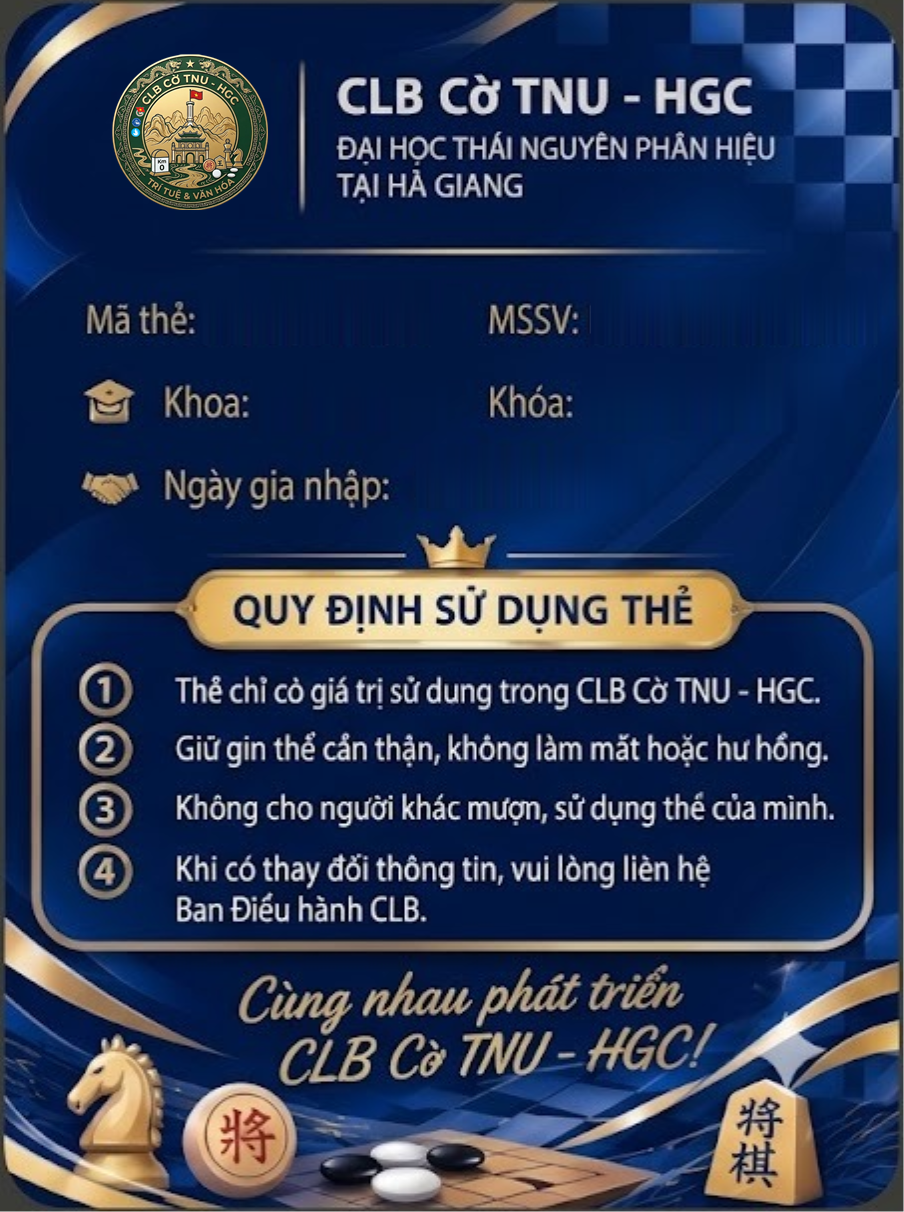
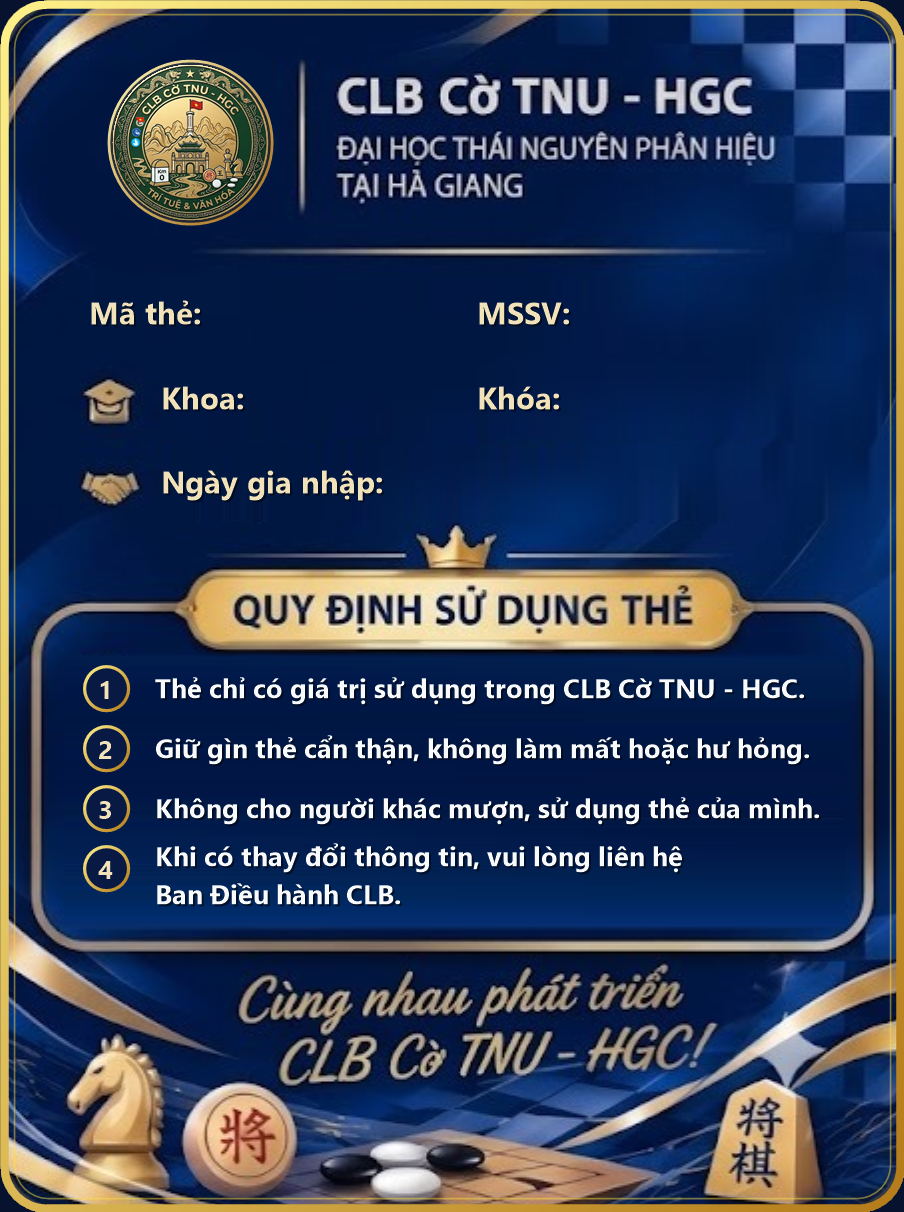
feat(card): redesign print-ready 2-sided PVC member card with 3D gold bezel, unified crisp typography, and spell-checked rules (v13)

diff --git a/src/js/components/memberCard.js b/src/js/components/memberCard.js
@@ -149,10 +149,10 @@ export const memberCardComponent = {
 
     // Load template backgrounds & member avatar in parallel
     const [frontBgImg, backBgImg, avatarImg, fallbackLogoImg] = await Promise.all([
-      loadImage('/card-front-bg.png?v=12'),
-      loadImage('/card-back-bg.png?v=12'),
+      loadImage('/card-front-bg.png?v=13'),
+      loadImage('/card-back-bg.png?v=13'),
       loadImage(member.avatar),
-      loadImage('/logo-circle.png?v=12')
+      loadImage('/logo-circle.png?v=13')
     ]);
 
     const frontCanvas = containerEl.querySelector('#frontCardMasterCanvas');
@@ -167,15 +167,15 @@ export const memberCardComponent = {
         ctxF.drawImage(frontBgImg, 0, 0, 904, 1212);
       }
 
-      // 1. Draw Member Portrait inside 3D Gold Frame (49, 418, 318, 368, r=26) with object-fit: cover
+      // 1. Draw Member Portrait inside 3D Gold Frame (45, 414, 326, 376, r=28) with object-fit: cover
       const photoToDraw = avatarImg || fallbackLogoImg;
       ctxF.save();
-      drawRoundedRectPath(ctxF, 49, 418, 318, 368, 26);
+      drawRoundedRectPath(ctxF, 45, 414, 326, 376, 28);
       ctxF.clip();
-      ctxF.fillStyle = '#0b1936';
-      ctxF.fillRect(49, 418, 318, 368);
+      ctxF.fillStyle = '#08183a';
+      ctxF.fillRect(45, 414, 326, 376);
       if (photoToDraw) {
-        const boxX = 49, boxY = 418, boxW = 318, boxH = 368;
+        const boxX = 45, boxY = 414, boxW = 326, boxH = 376;
         const imgW = photoToDraw.naturalWidth || photoToDraw.width || boxW;
         const imgH = photoToDraw.naturalHeight || photoToDraw.height || boxH;
         const scale = Math.max(boxW / imgW, boxH / imgH);
@@ -187,49 +187,61 @@ export const memberCardComponent = {
       }
       ctxF.restore();
 
-      // 2. Draw Member Name centered above the Gold Star Divider (x=648, y=490, maxWidth=445)
+      // 2. Draw Member Name centered above the Gold Star Divider (x=646, y=490, maxWidth=445)
       ctxF.save();
-      let nameFontSize = 46;
+      let nameFontSize = 48;
       ctxF.font = `700 ${nameFontSize}px "Segoe UI", "Roboto", "Be Vietnam Pro", Arial, sans-serif`;
-      while (ctxF.measureText(memberName).width > 445 && nameFontSize > 30) {
+      while (ctxF.measureText(memberName).width > 445 && nameFontSize > 28) {
         nameFontSize -= 2;
         ctxF.font = `700 ${nameFontSize}px "Segoe UI", "Roboto", "Be Vietnam Pro", Arial, sans-serif`;
       }
       ctxF.fillStyle = '#ffffff';
       ctxF.textAlign = 'center';
       ctxF.textBaseline = 'middle';
-      ctxF.shadowColor = 'rgba(0, 0, 0, 0.75)';
-      ctxF.shadowBlur = 8;
+      ctxF.shadowColor = 'rgba(0, 0, 0, 0.85)';
+      ctxF.shadowBlur = 10;
       ctxF.shadowOffsetX = 0;
-      ctxF.shadowOffsetY = 2;
-      ctxF.fillText(memberName, 648, 490, 445);
+      ctxF.shadowOffsetY = 3;
+      ctxF.fillText(memberName, 646, 490, 445);
       ctxF.restore();
 
-      // 3. Draw Ngày sinh & Lớp values aligned with static labels
+      // 3. Draw Ngày sinh & Lớp values aligned with unified 33px Bold labels (y=611, y=689)
       ctxF.save();
-      ctxF.font = '500 33px "Segoe UI", "Roboto", "Be Vietnam Pro", Arial, sans-serif';
+      ctxF.font = '700 34px "Segoe UI", "Roboto", "Be Vietnam Pro", Arial, sans-serif';
       ctxF.fillStyle = '#f8fafc';
       ctxF.textAlign = 'left';
       ctxF.textBaseline = 'middle';
-      ctxF.shadowColor = 'rgba(0, 0, 0, 0.7)';
-      ctxF.shadowBlur = 4;
+      ctxF.shadowColor = 'rgba(0, 0, 0, 0.85)';
+      ctxF.shadowBlur = 6;
       ctxF.shadowOffsetX = 0;
-      ctxF.shadowOffsetY = 1;
-      ctxF.fillText(memberDob, 670, 613, 195);
-      ctxF.fillText(memberClass, 670, 691, 195);
+      ctxF.shadowOffsetY = 2;
+      ctxF.fillText(memberDob, 670, 611, 196);
+      ctxF.fillText(memberClass, 670, 689, 196);
       ctxF.restore();
 
-      // 4. Draw Chức vụ value centered inside the 3D Gold Pill (x=768, y=771, maxWidth=176)
+      // 4. Draw Chức vụ value centered inside the 3D Gold Pill (x=766, y=770, maxWidth=176)
       ctxF.save();
-      ctxF.font = '700 29px "Segoe UI", "Roboto", "Be Vietnam Pro", Arial, sans-serif';
-      ctxF.fillStyle = '#14223e';
+      let roleFontSize = 29;
+      ctxF.font = `700 ${roleFontSize}px "Segoe UI", "Roboto", "Be Vietnam Pro", Arial, sans-serif`;
+      while (ctxF.measureText(memberRoleTitle).width > 174 && roleFontSize > 20) {
+        roleFontSize -= 1;
+        ctxF.font = `700 ${roleFontSize}px "Segoe UI", "Roboto", "Be Vietnam Pro", Arial, sans-serif`;
+      }
+      ctxF.fillStyle = '#081636';
       ctxF.textAlign = 'center';
       ctxF.textBaseline = 'middle';
-      ctxF.fillText(memberRoleTitle, 768, 771, 176);
+      ctxF.shadowColor = 'rgba(255, 248, 220, 0.45)';
+      ctxF.shadowBlur = 1;
+      ctxF.shadowOffsetY = 1;
+      ctxF.fillText(memberRoleTitle, 766, 770, 176);
       ctxF.restore();
 
-      // 5. Draw Dynamic Smart QR Key inside the Gold QR Frame (702, 894, 168, 168)
-      ctxF.drawImage(qrCanvas, 702, 894, 168, 168);
+      // 5. Draw Dynamic Smart QR Key inside the Gold QR Frame (698, 894, 168, 168)
+      ctxF.save();
+      drawRoundedRectPath(ctxF, 698, 894, 168, 168, 10);
+      ctxF.clip();
+      ctxF.drawImage(qrCanvas, 698, 894, 168, 168);
+      ctxF.restore();
     }
 
     // ================= DRAW BACK MASTER CANVAS (904 x 1212) =================
@@ -244,23 +256,23 @@ export const memberCardComponent = {
       ctxB.save();
       ctxB.textAlign = 'left';
       ctxB.textBaseline = 'middle';
-      ctxB.shadowColor = 'rgba(0, 0, 0, 0.7)';
-      ctxB.shadowBlur = 4;
+      ctxB.shadowColor = 'rgba(0, 0, 0, 0.85)';
+      ctxB.shadowBlur = 6;
       ctxB.shadowOffsetX = 0;
-      ctxB.shadowOffsetY = 1;
+      ctxB.shadowOffsetY = 2;
 
-      // 1. Mã thẻ (highlighted sky-blue bold)
+      // 1. Mã thẻ (highlighted sky-blue bold at x=212, y=313)
       ctxB.font = '700 33px "Segoe UI", "Roboto", "Be Vietnam Pro", Arial, sans-serif';
-      ctxB.fillStyle = '#5998f5';
-      ctxB.fillText(String(member.id || ''), 202, 313, 260);
+      ctxB.fillStyle = '#56ccf2';
+      ctxB.fillText(String(member.id || ''), 212, 313, 245);
 
-      // 2. MSSV, Khoa, Khóa, Ngày gia nhập
-      ctxB.font = '500 33px "Segoe UI", "Roboto", "Be Vietnam Pro", Arial, sans-serif';
+      // 2. MSSV, Khoa, Khóa, Ngày gia nhập (unified 31px bold white aligned with labels)
+      ctxB.font = '700 31px "Segoe UI", "Roboto", "Be Vietnam Pro", Arial, sans-serif';
       ctxB.fillStyle = '#f8fafc';
-      ctxB.fillText(memberMssv, 592, 313, 280);
-      ctxB.fillText(memberFaculty, 256, 398, 215);
-      ctxB.fillText(memberCohort, 588, 398, 265);
-      ctxB.fillText(memberJoinDate, 415, 482, 280);
+      ctxB.fillText(memberMssv, 578, 313, 290);
+      ctxB.fillText(memberFaculty, 256, 398, 205);
+      ctxB.fillText(memberCohort, 578, 398, 290);
+      ctxB.fillText(memberJoinDate, 396, 482, 290);
       ctxB.restore();
     }
 
@@ -333,7 +345,7 @@ export const memberCardComponent = {
           const ctxComp = compCanvas.getContext('2d');
 
           // Dark luxury textured background
-          ctxComp.fillStyle = '#1e2129';
+          ctxComp.fillStyle = '#070e20';
           ctxComp.fillRect(0, 0, compCanvas.width, compCanvas.height);
 
           const radGrad = ctxComp.createRadialGradient(
@@ -344,15 +356,15 @@ export const memberCardComponent = {
             compCanvas.height / 2,
             compCanvas.width * 0.7
           );
-          radGrad.addColorStop(0, 'rgba(30, 41, 59, 0.6)');
-          radGrad.addColorStop(1, 'rgba(15, 23, 42, 0.95)');
+          radGrad.addColorStop(0, 'rgba(20, 38, 76, 0.72)');
+          radGrad.addColorStop(1, 'rgba(6, 12, 28, 0.98)');
           ctxComp.fillStyle = radGrad;
           ctxComp.fillRect(0, 0, compCanvas.width, compCanvas.height);
 
           // Helper to draw each card with drop shadow and rounded corners
           const drawCardOnComposite = (cardCanvas, x, y, w, h, r) => {
             ctxComp.save();
-            ctxComp.shadowColor = 'rgba(0, 0, 0, 0.65)';
+            ctxComp.shadowColor = 'rgba(0, 0, 0, 0.7)';
             ctxComp.shadowBlur = 40;
             ctxComp.shadowOffsetX = 0;
             ctxComp.shadowOffsetY = 20;
@@ -368,9 +380,9 @@ export const memberCardComponent = {
             ctxComp.restore();
           };
 
-          // Draw Front Card on left (70, 36, 904, 1212) & Back Card on right (1072, 36, 904, 1212)
-          drawCardOnComposite(frontCanvas, 70, 36, 904, 1212, 44);
-          drawCardOnComposite(backCanvas, 1072, 36, 904, 1212, 44);
+          // Draw Front Card on left (70, 31, 904, 1212) & Back Card on right (1074, 31, 904, 1212)
+          drawCardOnComposite(frontCanvas, 70, 31, 904, 1212, 44);
+          drawCardOnComposite(backCanvas, 1074, 31, 904, 1212, 44);
 
           // Convert compCanvas to Blob
           const blob = await new Promise((resolve) => {

diff --git a/src/css/components.css b/src/css/components.css
@@ -343,7 +343,7 @@
 }
 
 .id-card-front {
-  background: url('/card-front-bg.png?v=12') center / 100% 100% no-repeat;
+  background: url('/card-front-bg.png?v=13') center / 100% 100% no-repeat;
   transform: rotateY(0deg);
   z-index: 2;
 }
@@ -354,26 +354,82 @@
   left: 0;
   width: 100%;
   height: 100%;
-  background: url('/card-back-bg.png?v=12') center / 100% 100% no-repeat;
+  background: url('/card-back-bg.png?v=13') center / 100% 100% no-repeat;
   transform: rotateY(180deg);
   z-index: 1;
+}
+
+/* ==========================================================================
+   VERTICAL MEMBER ID CARD (PORTRAIT VIP LUXURY 3D ROYAL EDITION - CANVAS)
+   ========================================================================== */
+
+.vcard-wrapper {
+  display: flex;
+  flex-direction: column;
+  align-items: center;
+  width: 100%;
+}
+
+.id-card-scene {
+  perspective: 1400px;
+  width: 100%;
+  max-width: 440px;
+  aspect-ratio: 452 / 606;
+  margin: 0 auto;
+}
+
+.id-card-flipper {
+  position: relative;
+  width: 100%;
+  height: 100%;
+  aspect-ratio: 452 / 606;
+  transition: transform 0.65s cubic-bezier(0.4, 0, 0.2, 1);
+  transform-style: preserve-3d;
+  cursor: pointer;
+  user-select: none;
+}
+
+.id-card-flipper.is-flipped {
+  transform: rotateY(180deg);
+}
+
+.id-card-face {
+  width: 100%;
+  height: 100%;
+  aspect-ratio: 452 / 606;
+  border-radius: 20px;
+  position: relative;
+  overflow: hidden;
+  box-shadow: 0 20px 50px rgba(0, 0, 0, 0.78), 0 0 35px rgba(212, 175, 55, 0.22);
+  backface-visibility: hidden;
+  -webkit-backface-visibility: hidden;
 }
 
 .vcard-master-canvas {
   width: 100%;
   height: 100%;
   display: block;
-  border-radius: inherit;
-  pointer-events: none;
+  object-fit: contain;
+  border-radius: 20px;
 }
 
-/* ==========================================================================
-   VERTICAL MEMBER ID CARD (PORTRAIT VIP LUXURY 3D ROYAL EDITION)
-   ========================================================================== */
+.flip-instruction {
+  margin-top: 12px;
+  font-size: 0.84rem;
+  color: var(--gold-light);
+  display: flex;
+  align-items: center;
+  justify-content: center;
+  gap: 8px;
+  opacity: 0.9;
+}
 
 /* Vô hiệu hóa toàn bộ hiệu ứng khi di chuột vào thẻ thành viên, chỉ giữ hiệu ứng lật thẻ 3D */
 .id-card-flip-container:hover,
 .electronic-id-card:hover,
+.id-card-scene:hover,
+.id-card-face:hover,
+.vcard-master-canvas:hover,
 .vcard-avatar-box:hover,
 .vcard-avatar-img:hover {
   transform: none !important;
@@ -381,7 +437,9 @@
 }
 
 .id-card-flip-inner.is-flipped,
-.id-card-flip-inner.is-flipped:hover {
+.id-card-flip-inner.is-flipped:hover,
+.id-card-flipper.is-flipped,
+.id-card-flipper.is-flipped:hover {
   transform: rotateY(180deg) !important;
 }
 

diff --git a/public/sw.js b/public/sw.js
@@ -1,5 +1,5 @@
 // Service Worker for CLB Cờ TNU - HGC Progressive Web App
-const CACHE_NAME = 'tnu-hgc-pwa-v12';
+const CACHE_NAME = 'tnu-hgc-pwa-v13';
 
 self.addEventListener('install', (event) => {
   self.skipWaiting();
